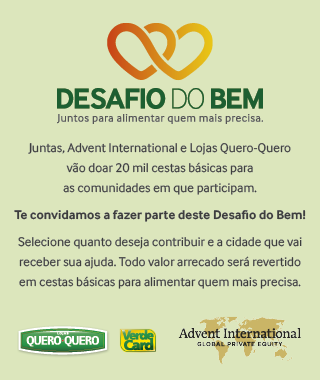
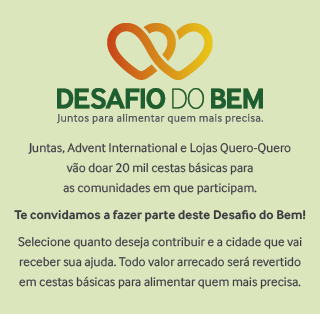
changes for homepage.

Changed region(s): [[0.0312, 0.4299, 0.9688, 0.9459], [0.0938, 0.0573, 0.9062, 0.4013]]

diff --git a/src/pages/HomePage.js b/src/pages/HomePage.js
@@ -1,8 +1,11 @@
 import React from 'react'
-import {Button, Grid, makeStyles, lighten, LinearProgress, Typography} from '@material-ui/core'
+import {Button, Grid, makeStyles, lighten, LinearProgress} from '@material-ui/core'
 import Util from '../services/Util'
 import {withStyles} from '@material-ui/styles';
 import BannerMobile from '../components/Image/banner-home-mobile'
+import Advent from '../components/Image/advent'
+import QueroQueroVerdecard from '../components/Image/qq-vc'
+import Pessoas from '../components/Image/pessoas'
 
 const useStyles = makeStyles((theme) => ({
     image: {
@@ -18,7 +21,7 @@ const useStyles = makeStyles((theme) => ({
         textAlign: 'center',
         fontSize: 22,
         marginBottom: 16,
-        marginTop: 22
+        marginTop: 8
     },
     btnDoar: {
         borderRadius: 50,
@@ -36,7 +39,86 @@ const useStyles = makeStyles((theme) => ({
         borderRadius: 50,
         marginTop: 20
     },
+    qqLogo: {
+        height: 90,
+
+        '& img': {
+            maxWidth: '100%',
+        },
+
+        '& .gatsby-image-wrapper': {
+            height: '100% !important',
+            width: '72% !important',
+            marginTop: 8,
+
+            '& img': {
+                objectFit: 'unset !important'
+            }
+        },
+    },
+    adventLogo: {
+        height: 82,
+        paddingTop: 15,
+
+        '& img': {
+            maxWidth: '100%'
+        },
+
+        '& .gatsby-image-wrapper': {
+            height: '100% !important',
+            width: '92% !important',
+
+            '& img': {
+                objectFit: 'unset !important'
+            }
+        },
+    },
+    publicLogo: {
+        height: 92,
+        paddingTop: 15,
+        textAlign: 'center',
+
+        '& img': {
+            maxWidth: '100%'
+        },
+
+        '& .gatsby-image-wrapper': {
+            height: '100% !important',
+            width: '50% !important',
+
+            '& img': {
+                objectFit: 'unset !important'
+            }
+        },
+    },
+    progressWrapperContainer: {
+        height: 154
+    },
+    progressWrapper: {
+        position: 'relative',
+    },
+    progressValue: {
+        position: 'absolute',
+        bottom: 18,
+        left: 14,
+    },
     '@media only screen and (max-width: 992px)': {
+        progressWrapperContainer: {
+            height: 122
+        },
+        qqLogo: {
+            height: 60
+        },
+        adventLogo: {
+            height: 58
+        },
+        publicLogo: {
+            height: 68,
+
+            '& .gatsby-image-wrapper': {
+                width: '60% !important'
+            }
+        },
         btnCancelDoacao: {
             display: 'block',
         },
@@ -71,17 +153,64 @@ const useStyles = makeStyles((theme) => ({
     }
 }))
 
-const BorderLinearProgress = withStyles({
+const defaultProgress = {
     root: {
-        height: 15,
-        backgroundColor: lighten('#1D5F31', 0.5),
-        marginBottom: 16
+        height: 25,
+        marginBottom: 16,
+        position: 'absolute',
+        bottom: 0,
+        width: '100%'
     },
     bar: {
-        backgroundColor: '#1D5F31',
-        borderRadius: 10
+        
+    }
+}
+
+const ProgressBarQQ = withStyles(theme => ({
+    root: {
+        ...defaultProgress.root,
+        backgroundColor: lighten('#538136', 0.5),
+        
     },
-})(LinearProgress);
+    bar: {
+        ...defaultProgress.bar,
+        backgroundColor: '#538136',
+    }
+}))(LinearProgress);
+
+const ProgressBarAdvent = withStyles(theme => ({
+    root: {
+        ...defaultProgress.root,
+        backgroundColor: lighten('#cbb667', 0.5),
+        
+    },
+    bar: {
+        ...defaultProgress.bar,
+        backgroundColor: '#cbb667',
+    },
+    '@media only screen and (max-width: 992px)': {
+        root: {
+            backgroundColor: lighten(theme.mobileBackground, 0.5),
+        }
+    }
+}))(LinearProgress);
+
+const ProgressBarPublic = withStyles(theme => ({
+    root: {
+        ...defaultProgress.root,
+        backgroundColor: lighten('#618fba', 0.5),
+        
+    },
+    bar: {
+        ...defaultProgress.bar,
+        backgroundColor: '#618fba'
+    },
+    '@media only screen and (max-width: 992px)': {
+        root: {
+            backgroundColor: lighten(theme.mobileBackground, 0.5),
+        }
+    }
+}))(LinearProgress);
 
 export default function HomePage({data, next}) {
     const classes = useStyles()
@@ -106,26 +235,69 @@ export default function HomePage({data, next}) {
                         <BannerMobile className={classes.imageMobile}/>
                     </div>
 
-
-                    <span className={classes.labelFinal} style={{textAlign: 'left'}}>
-                            Doado <strong>R$ {Util.formatMoney(campanha.vlrDoado)}</strong>
-                        </span>
-
-
-                    <BorderLinearProgress
-                        variant="determinate"
-                        color="secondary"
-                        value={campanha.percAtingimento}
-                    />
-
                     {campanha.exibeLabelVlrDesafio == 1 && (
                         <span className={classes.labelFinal} style={{textAlign: 'right'}}>
                         Desafio <strong>R$ {Util.formatMoney(campanha.vlrDesafio)}</strong>
                       </span>
                     )}
+
+                    <Grid container className={classes.progressWrapperContainer}>
+                        <Grid item xs={4} className={classes.progressWrapper}>
+                            <div className={classes.qqLogo}>
+                                <QueroQueroVerdecard />
+                            </div>
+
+                            <ProgressBarQQ
+                                variant="determinate"
+                                color="secondary"
+                                value={campanha.percAtingimento}
+                            />
+
+                            <span className={classes.progressValue} style={{ color: '#fff' }}>
+                                {Util.formatMoney(campanha.vlrDoadoQq)}
+                            </span>
+                        </Grid>
+
+                        <Grid item xs={4} className={classes.progressWrapper}>
+                            <div className={classes.adventLogo}>
+                                <Advent />
+                            </div>
+
+                            <ProgressBarAdvent
+                                variant="determinate"
+                                color="secondary"
+                                value={campanha.percAtingimento}
+                            />
+
+                            <span className={classes.progressValue}>
+                                {Util.formatMoney(campanha.vlrDoadoAdvt)}
+                            </span>
+                        </Grid>
+
+                        <Grid item xs={4} className={classes.progressWrapper}>
+                            <div className={classes.publicLogo}>
+                                <Pessoas />
+                            </div>
+
+                            <ProgressBarPublic
+                                variant="determinate"
+                                color="secondary"
+                                value={campanha.percAtingimentoPopular || 0}
+                            />
+
+                            <span className={classes.progressValue}>
+                                {Util.formatMoney(campanha.vlrDoadoPublico)}
+                            </span>
+                        </Grid>
+                    </Grid>
+
+                    <span className={classes.labelFinal} style={{textAlign: 'right'}}>
+                        Total <strong>R$ {Util.formatMoney(campanha.vlrDoado)}</strong>
+                    </span>
+
                     <span className={classes.labelFinalAccent}>
-            Faltam <strong>{campanha.diasEncerramento} dias!</strong>
-          </span>
+                        Faltam <strong>{campanha.diasEncerramento} dias!</strong>
+                    </span>
 
                     <Button
                         className={classes.btnDoar}

diff --git a/src/components/Image/qq-vc.js b/src/components/Image/qq-vc.js
@@ -1,0 +1,21 @@
+import React from 'react'
+import { StaticQuery, graphql } from 'gatsby'
+import Img from 'gatsby-image'
+
+const QueroQueroVerdecard = () => (
+  <StaticQuery
+    query={graphql`
+      query {
+        placeholderImage: file(relativePath: { eq: "qq-vc.png" }) {
+          childImageSharp {
+            fixed(width: 210, quality: 90) {
+              ...GatsbyImageSharpFixed_withWebp
+            }
+          }
+        }
+      }
+    `}
+    render={data => <Img fixed={data.placeholderImage.childImageSharp.fixed} />}
+  />
+)
+export default QueroQueroVerdecard

diff --git a/src/components/Image/advent.js b/src/components/Image/advent.js
@@ -1,0 +1,21 @@
+import React from 'react'
+import { StaticQuery, graphql } from 'gatsby'
+import Img from 'gatsby-image'
+
+const Advent = () => (
+  <StaticQuery
+    query={graphql`
+      query {
+        placeholderImage: file(relativePath: { eq: "Advent_International_logo.png" }) {
+          childImageSharp {
+            fixed(width: 210, quality: 90) {
+              ...GatsbyImageSharpFixed_withWebp
+            }
+          }
+        }
+      }
+    `}
+    render={data => <Img fixed={data.placeholderImage.childImageSharp.fixed} />}
+  />
+)
+export default Advent

diff --git a/src/components/Image/pessoas.js b/src/components/Image/pessoas.js
@@ -1,0 +1,21 @@
+import React from 'react'
+import { StaticQuery, graphql } from 'gatsby'
+import Img from 'gatsby-image'
+
+const Pessoas = () => (
+  <StaticQuery
+    query={graphql`
+      query {
+        placeholderImage: file(relativePath: { eq: "pessoas.png" }) {
+          childImageSharp {
+            fixed(width: 210, quality: 90) {
+              ...GatsbyImageSharpFixed_withWebp
+            }
+          }
+        }
+      }
+    `}
+    render={data => <Img fixed={data.placeholderImage.childImageSharp.fixed} />}
+  />
+)
+export default Pessoas

diff --git a/src/pages/DonationFinish.js b/src/pages/DonationFinish.js
@@ -62,6 +62,12 @@ export default function DonationFinish({ checkoutResponse }) {
     if (typeof window !== 'undefined' && window.parent) {
       window.parent.postMessage(JSON.stringify({ action: 'close'}), '*'); 
     }
+
+    if (typeof window !== 'undefined' && window.location) {
+      if (window.innerWidth >= 1024) {
+        window.location.reload()
+      }
+    }
   }
 
   return (
